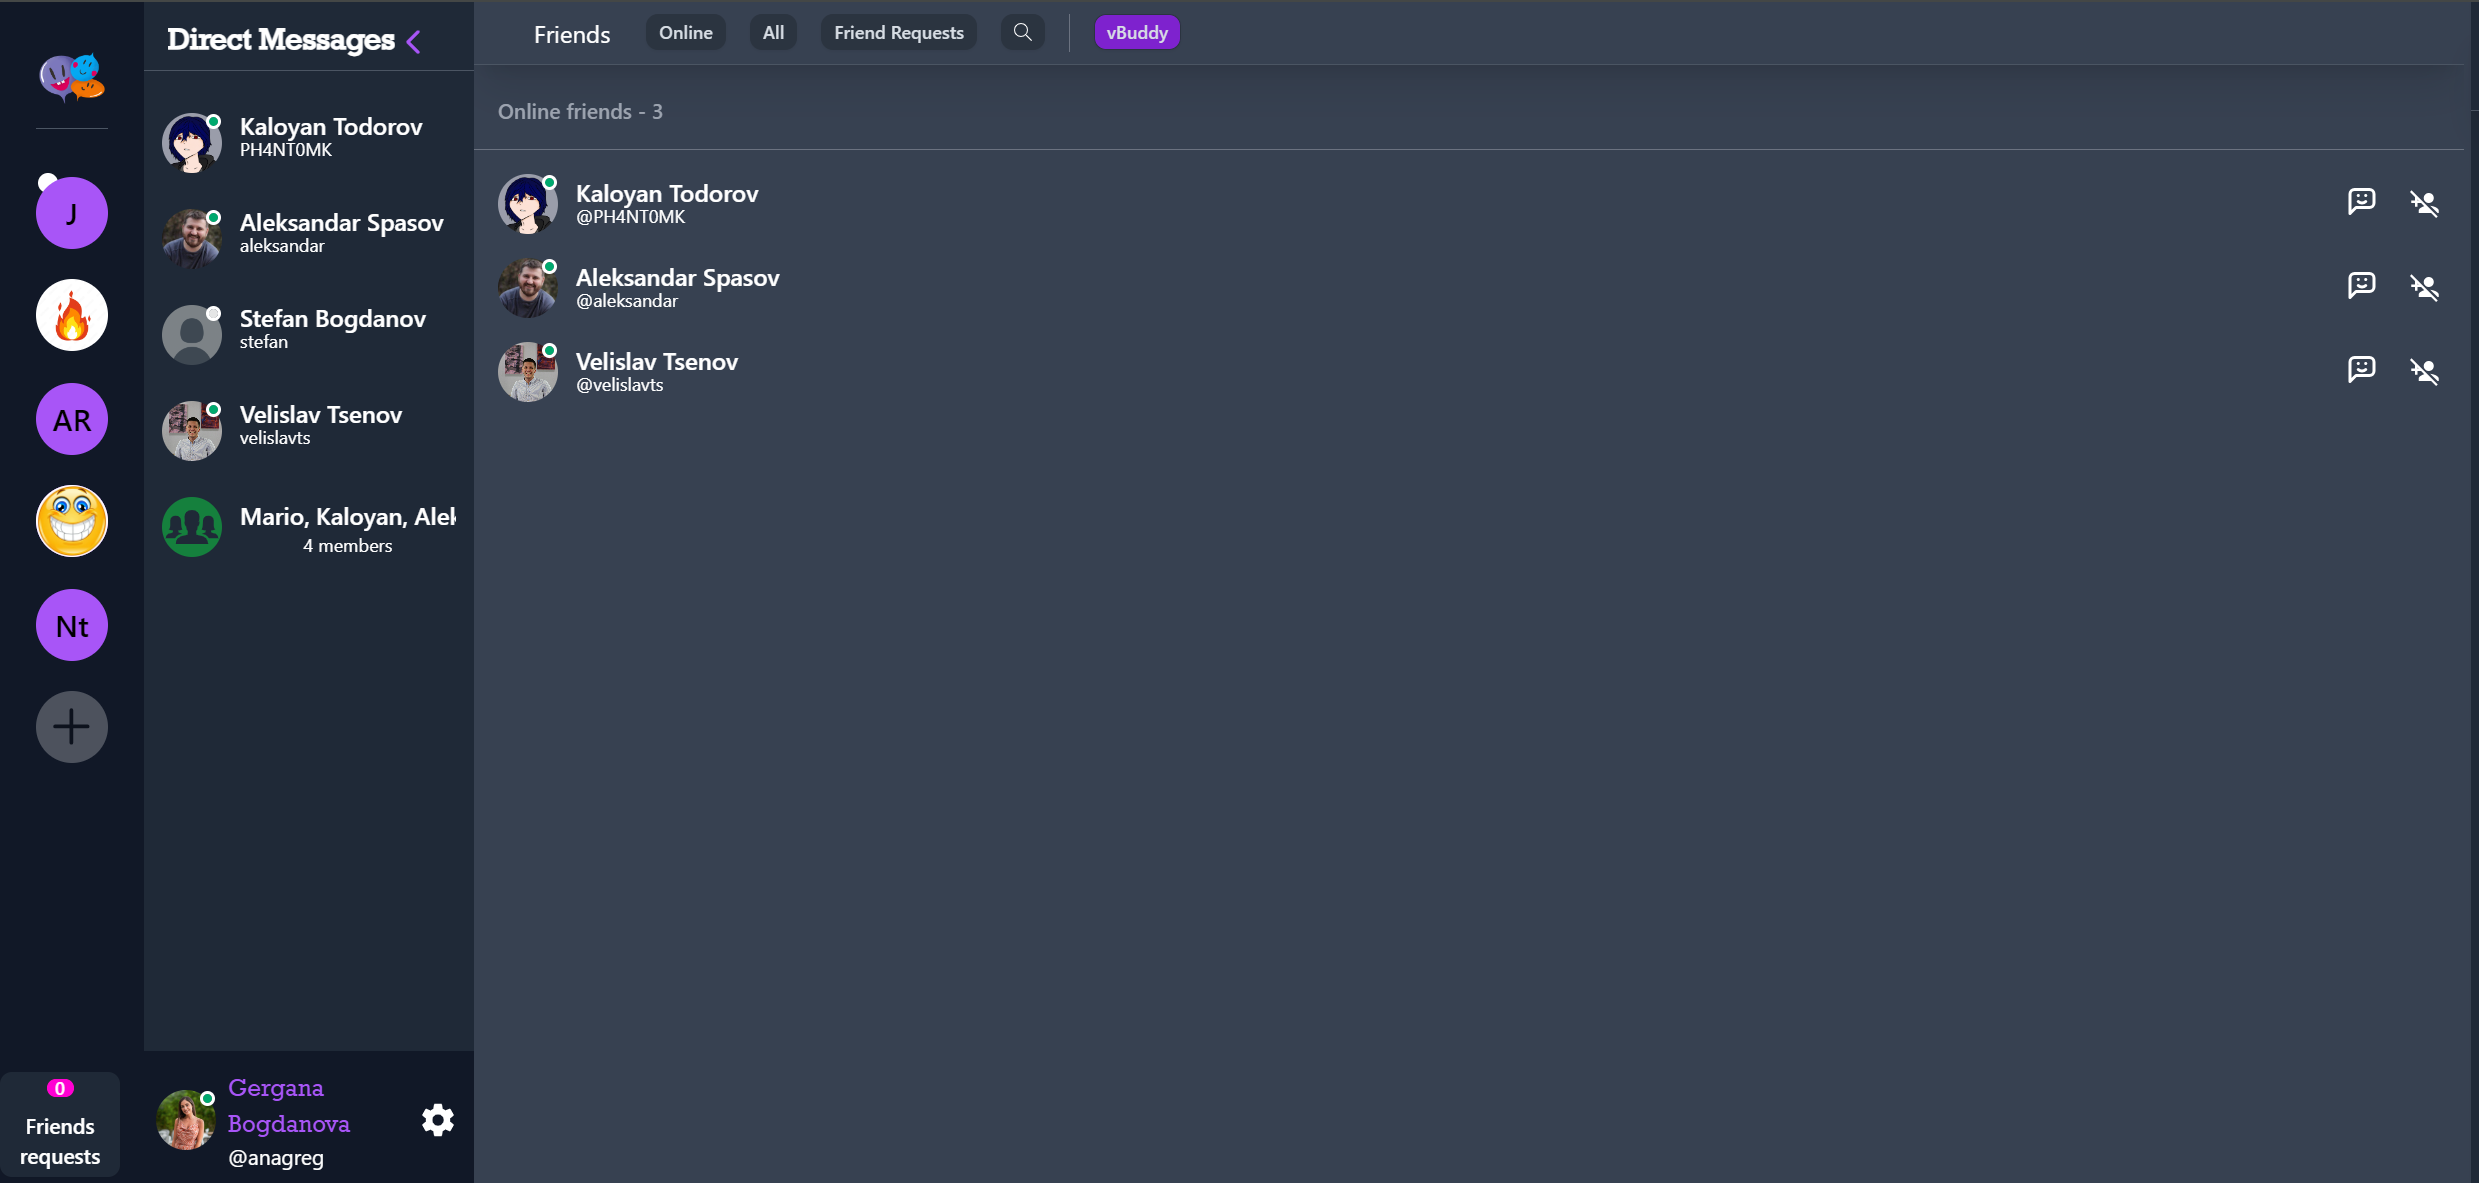
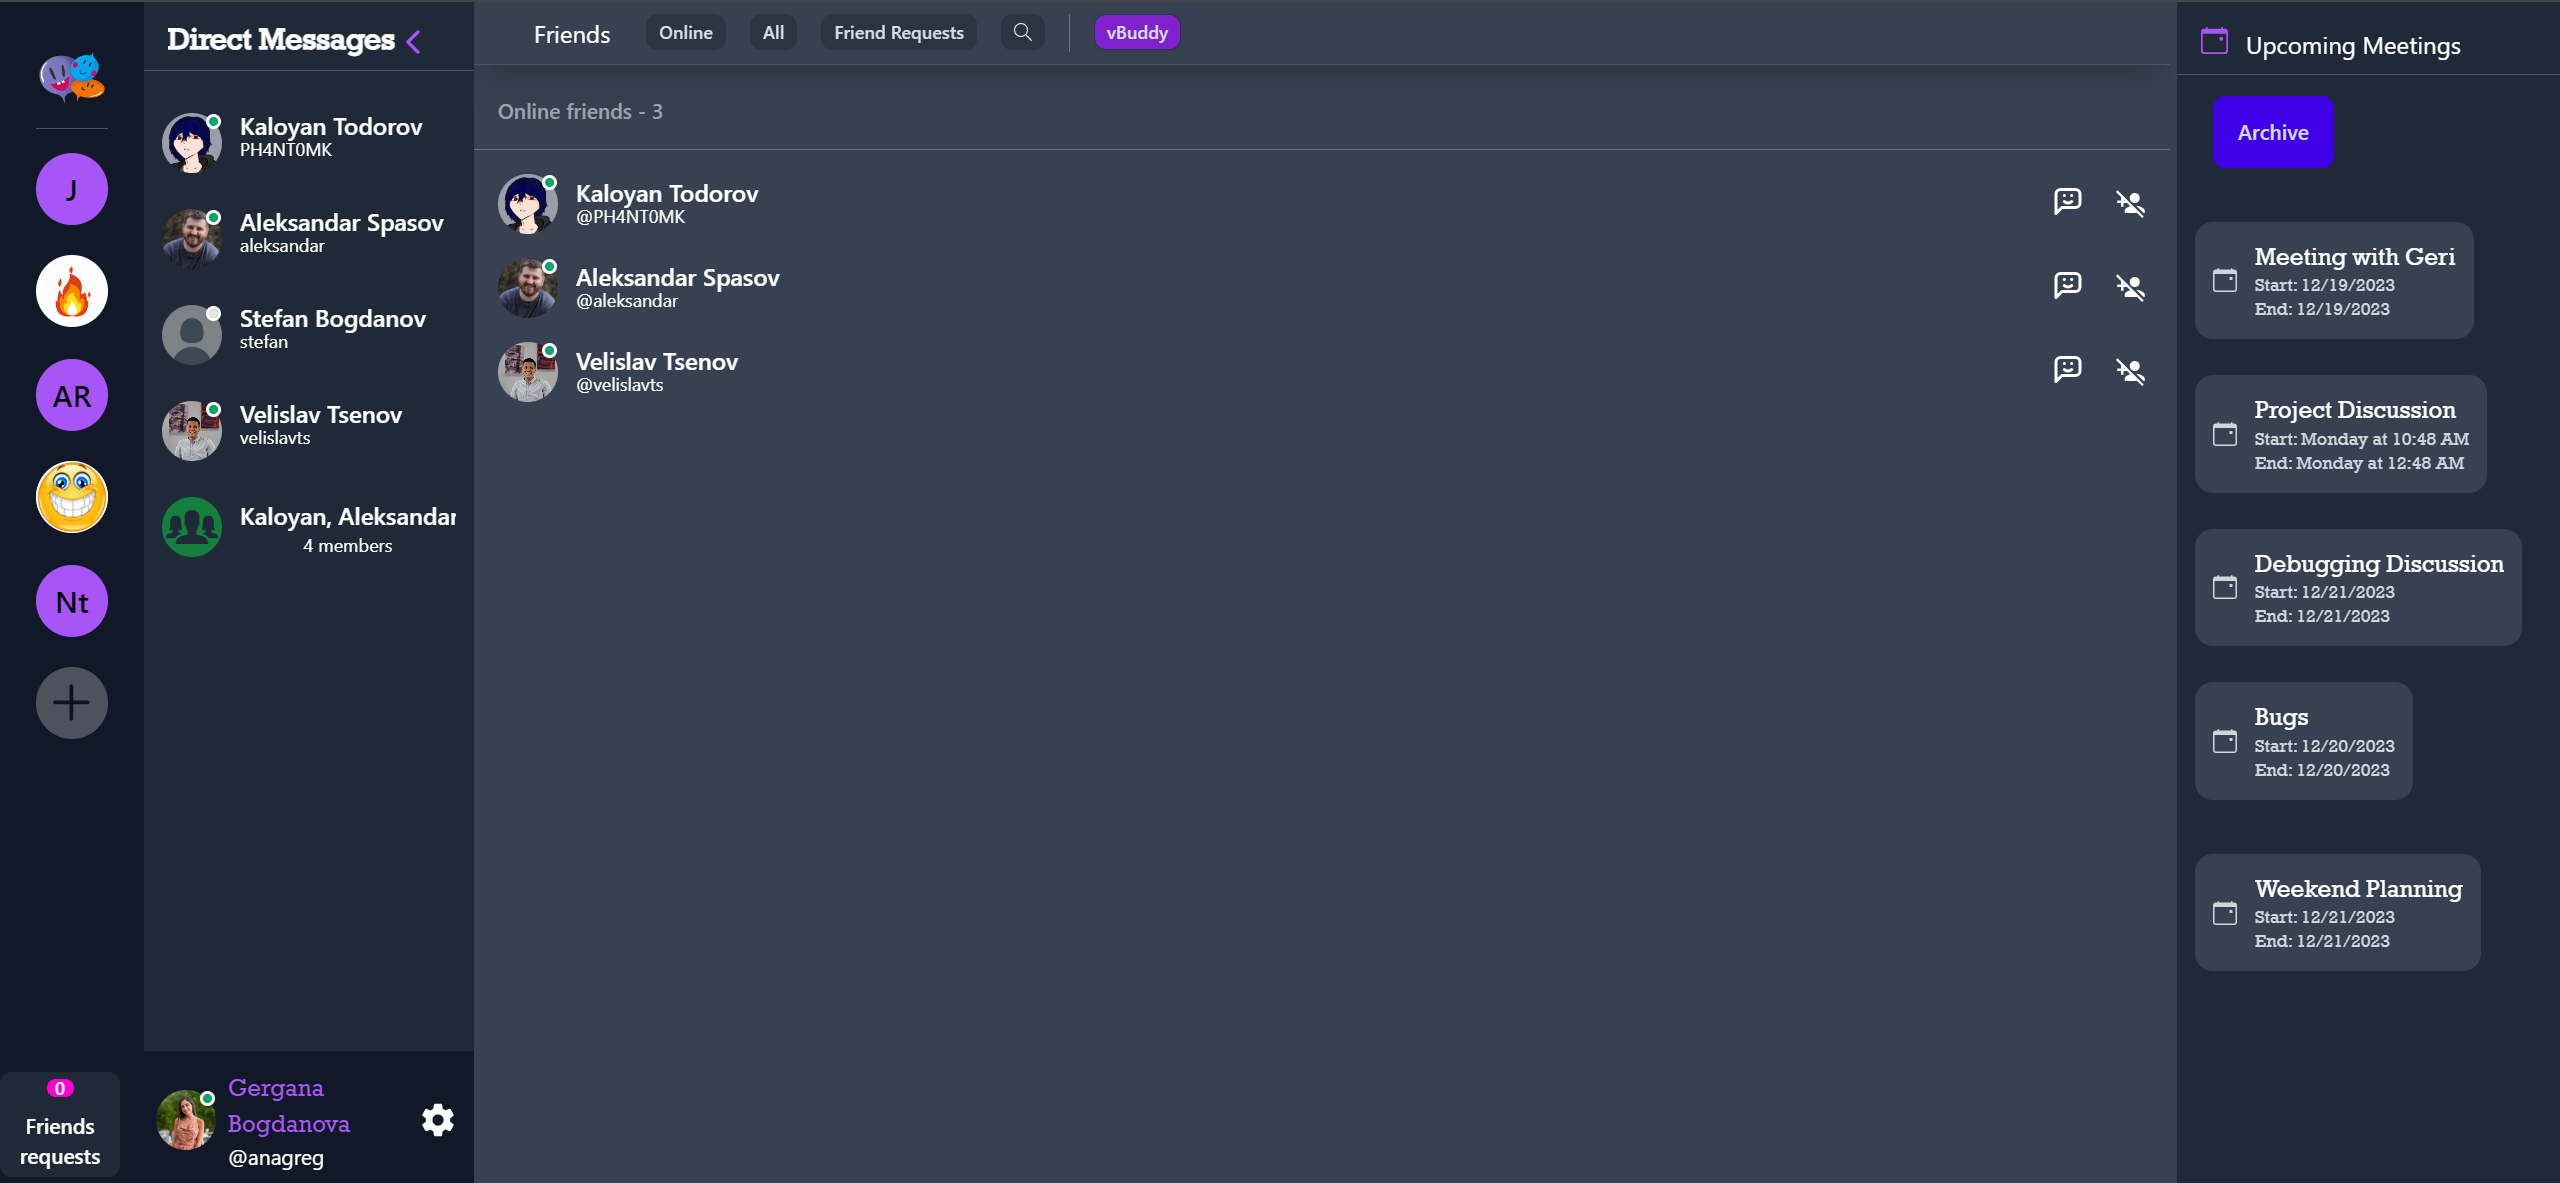
fix: Readme file

diff --git a/README.md b/README.md
@@ -5,8 +5,11 @@
 
 Introducing Chatter: a contemporary app designed for seamless communication and collaboration among individuals and teams. This user-friendly platform facilitates real-time interaction, enabling users to effortlessly share information, exchange resources, and engage in discussions, including voice and video options.
 
+### Creators
 
-
+- Aleksandar Spasov - [@alekspasov](https://github.com/alekspasov)
+- Gergana Bogdanova - [@banagreg](https://github.com/banagreg)
+- Kaloyan Todorov - [@PH4NT0MK](https://github.com/PH4NT0MK)
 ### Technologies used
 - JavaScript
 - React
@@ -22,6 +25,14 @@ Introducing Chatter: a contemporary app designed for seamless communication and 
 - git
 
 ### Instalation
+1. Install the packages
+```
+npm install
+```
+2. Run the application
+```
+npm run dev
+```
 
 ### Usage
 
@@ -29,11 +40,13 @@ Introducing Chatter: a contemporary app designed for seamless communication and 
 	<br />The Welcome page offers a visually engaging experience. Navigate effortlessly to access our platform by selecting either the 'Sign In' or 'Sign Up' buttons, tailored to your preference and needs.
 
     <img src="./src/assets/screenshot_landingPage.png"/>
+	<br/>
 
 - **Private part**
-	<br />Registered users can login and see a home page with a Teams sidebar, a Direct messages sidebar and a menu, where they can see all their Online friends, All friends, Friend Requests, or search for a new friend.
+	<br />Registered users can login and see a home page with a Teams sidebar, a Direct messages sidebar and a menu, where they can see all their Online friends, All friends, Friend Requests, or search for a new friend. On the right side there is Meetings sidebar with all the upcoming meetings and/or archived meetings.
 
 	<img src="./src/assets/screenshot_friendsPage.png"/>
+	<br/>
 
 - **Teams and channels**
 	<br />Users can create a team, create channels and chat with the members of their team in the channels.Every team have 'General' channel with all team members. 
@@ -42,23 +55,36 @@ Introducing Chatter: a contemporary app designed for seamless communication and 
 	<br/>Team owners can change the team avatar, the team name and add members to the team.
 
 	<img src="./src/assets/screenshot_channelPage.png"/>
+	<br/>
 
 - **Direct messages**
 	<br />Users can search for other registered users and start a direct message chat with them. They can add reactions to every message and edit their own messages.
 	<br/>The 'Chat members' side bar can be closed, depending on user's preferences.
 
 	<img src="./src/assets/screenshot_dms.png"/>
+	<br/>
 
 - **Group messages**
 	<br />Users can add other users to their direct message chats, making them a group chat. Group chats can have unlimited members. Any user can leave any group chat at any time.
 
 	<img src="./src/assets/screenshot_groupDM.png"/>
-
+	<br/>
 - **Virtual buddy messages**
-  <br/> 
-  <img src="./src/assets/screenshot_vBuddy.png"/>
+    <br/> Users have the opportunity to use build in AI chat bot - vBuddy. They can ask him various questions and he will be more than happy to provide information and assistance.
+
+    <img src="./src/assets/screenshot_vBuddy.png"/>
+	<br/>
+
+- **Meetings**
+	<br/> Chatter's meetings facilitate real-time communication and collaboration among participants regardless of their location, allowing remote teams or individuals to connect seamlessly.
+	- Meetings can be scheduled in advance.
+	- Participants can use the meeting chat feature to share messages during the meeting without interrupting the conversation.
+	- Meetings support both video and audio conferencing, enabling participants to see and hear each other. Users can turn on or off their cameras and microphones based on their preferences.
+	- Meetings can be recorded for future reference or for participants who couldn't attend. This feature captures audio and video.
+    <br/>
+
+	<img src="./src/assets/screenshot_meeting.png"/>
 
 - **Profile**
 	<br />Users have a profile panel which enables them to edit their first name, last name and phone number. Users can also change their avatar.
-
 	<img src="./src/assets/screenshot_profilePreferences.png"/>
